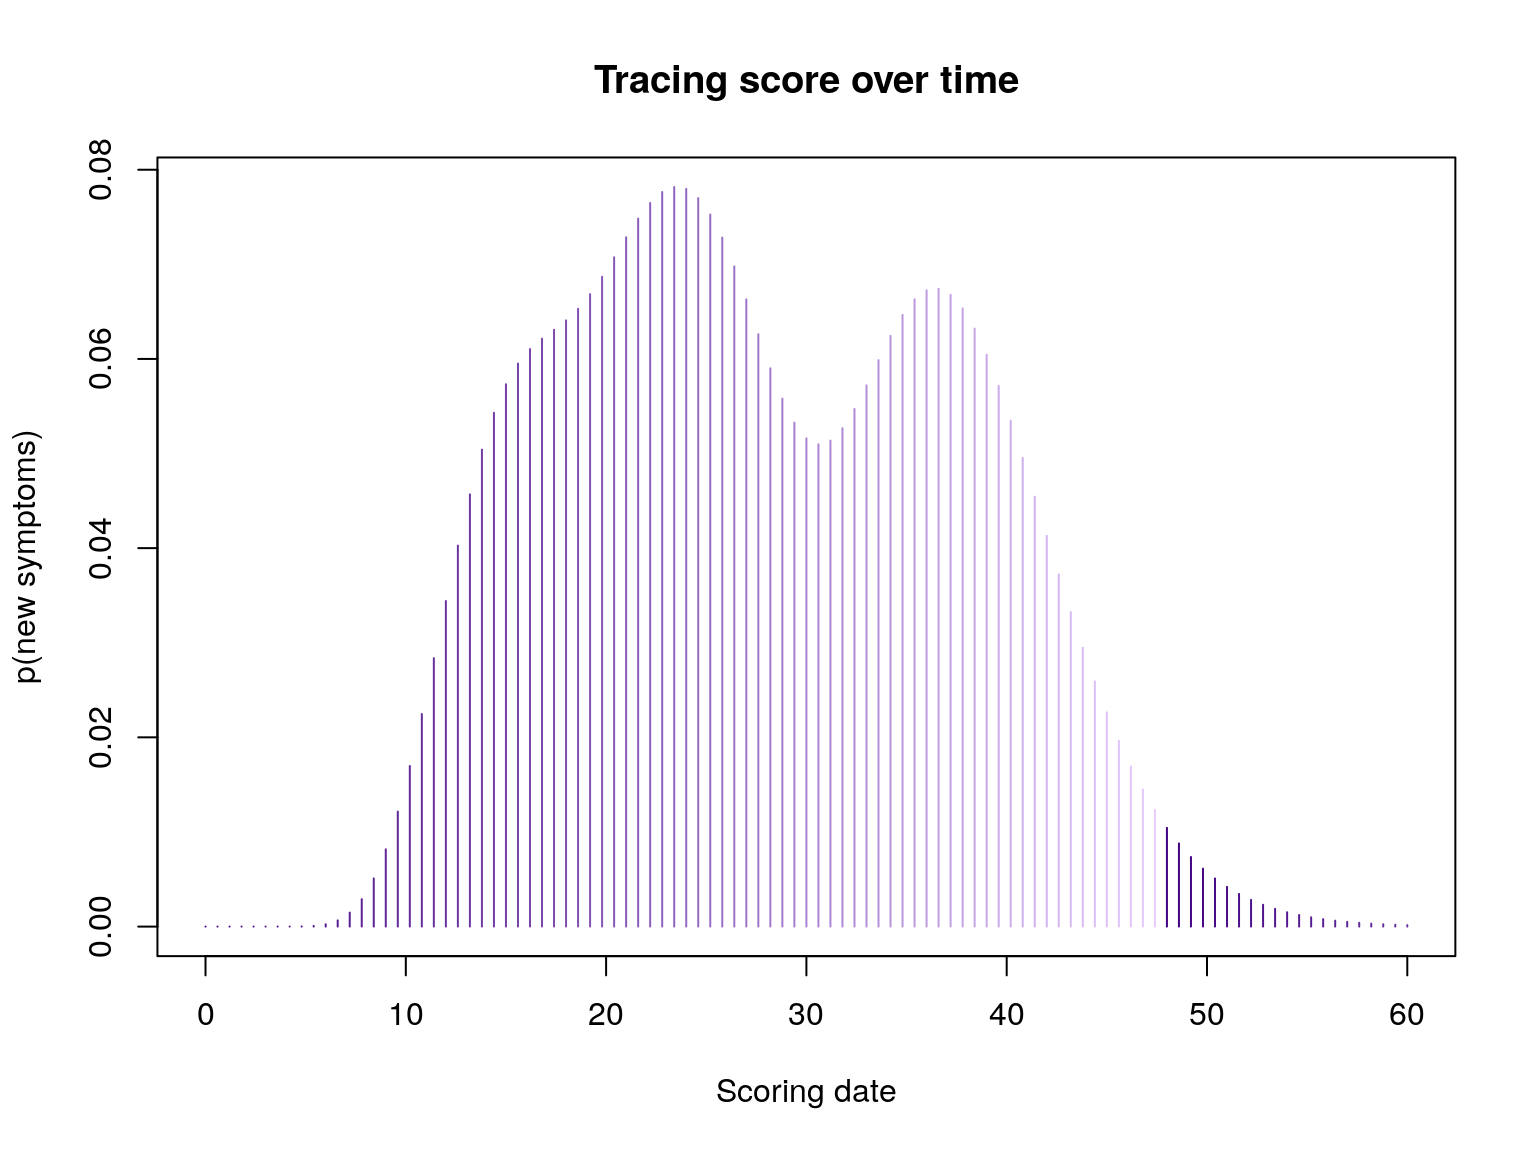
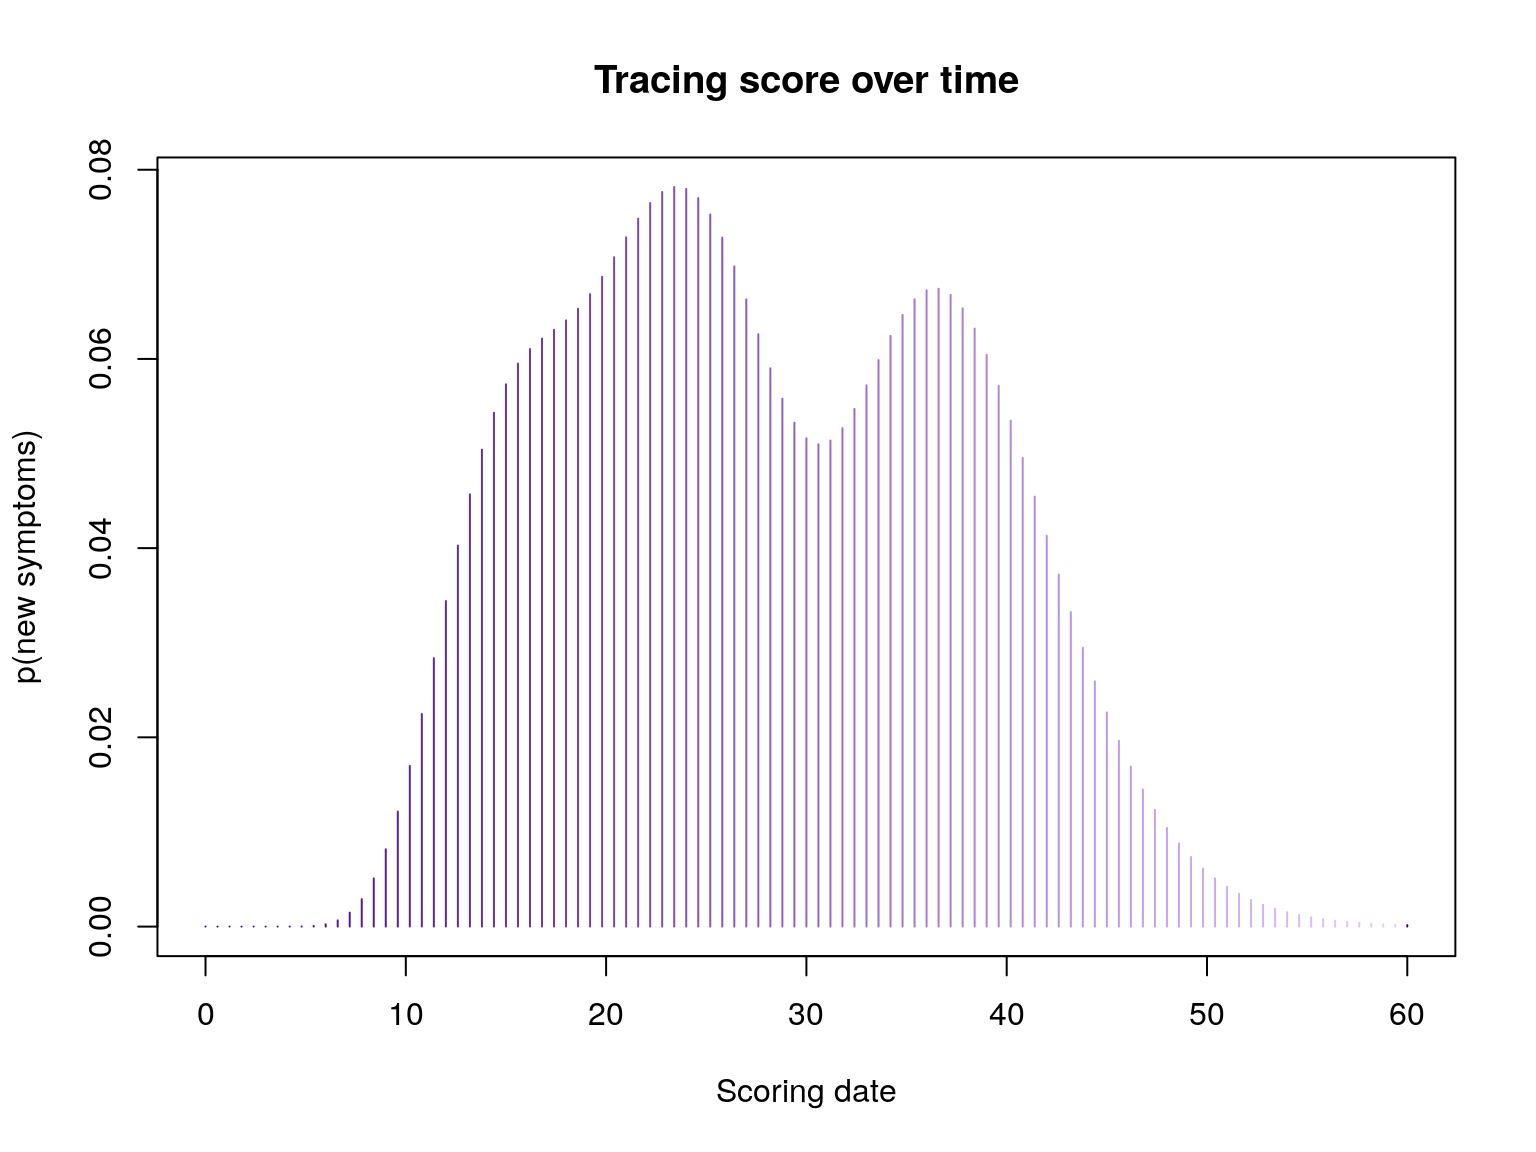
cosmetic changes

Changed region(s): [[0.6562, 0.4375, 0.8438, 0.8125]]

diff --git a/docs/index.html b/docs/index.html
@@ -109,23 +109,21 @@ SI &lt;-<span class="st"> </span>SI.info$d
 <p>For instance, using the parameters defined above, and 3 exposures to cases with onset on days 3, 12, and 34:</p>
 <div class="sourceCode"><pre class="sourceCode r"><code class="sourceCode r">f &lt;-<span class="st"> </span><span class="kw"><a href="reference/contact_score.html">contact_score</a></span>(<span class="kw">c</span>(<span class="dv">3</span>, <span class="dv">12</span>, <span class="dv">24</span>), R, lambda, SI)
 f
-<span class="co">#&gt; function (t, visit_days_ago = 1L) </span>
-<span class="co">#&gt; {</span>
-<span class="co">#&gt;     if (visit_days_ago &lt; 1L) {</span>
-<span class="co">#&gt;         stop("'visit_days_ago' cannot be less than 1.")</span>
+<span class="co">#&gt; function(t, visit_days_ago = 1L) {</span>
+<span class="co">#&gt;         if (visit_days_ago &lt; 1L) {</span>
+<span class="co">#&gt;             stop("'visit_days_ago' cannot be less than 1.")</span>
+<span class="co">#&gt;         }</span>
+<span class="co">#&gt; </span>
+<span class="co">#&gt;         days_ago_to_consider &lt;- seq(0, visit_days_ago - 1L, by = 1L)</span>
+<span class="co">#&gt;         days_list &lt;- lapply(days_ago_to_consider, function(i) t - i)</span>
+<span class="co">#&gt;         out &lt;- double(length(t))</span>
+<span class="co">#&gt;         for (days in days_list) {</span>
+<span class="co">#&gt;             rates &lt;- Rc * vapply(days, function(day) sum(w(day - x)), double(1))</span>
+<span class="co">#&gt;             out &lt;- out + 1 - exp(-rates)</span>
+<span class="co">#&gt;         }</span>
+<span class="co">#&gt;         out</span>
 <span class="co">#&gt;     }</span>
-<span class="co">#&gt;     days_ago_to_consider &lt;- seq(0, visit_days_ago - 1L, by = 1L)</span>
-<span class="co">#&gt;     days_list &lt;- lapply(days_ago_to_consider, function(i) t - </span>
-<span class="co">#&gt;         i)</span>
-<span class="co">#&gt;     out &lt;- double(length(t))</span>
-<span class="co">#&gt;     for (days in days_list) {</span>
-<span class="co">#&gt;         rates &lt;- Rc * vapply(days, function(day) sum(w(day - </span>
-<span class="co">#&gt;             x)), double(1))</span>
-<span class="co">#&gt;         out &lt;- out + 1 - exp(-rates)</span>
-<span class="co">#&gt;     }</span>
-<span class="co">#&gt;     out</span>
-<span class="co">#&gt; }</span>
-<span class="co">#&gt; &lt;environment: 0x55e308bef3d8&gt;</span>
+<span class="co">#&gt; &lt;environment: 0x55e306fb8b40&gt;</span>
 
 ## score on day 10:
 <span class="kw">f</span>(<span class="dv">10</span>)
@@ -136,7 +134,7 @@ f
 <span class="co">#&gt; [1] 0.07796896 0.07592696 0.07186847</span>
 
 ## plotting scores over time
-<span class="kw">plot</span>(f, <span class="dt">xlim =</span> <span class="kw">c</span>(<span class="dv">0</span>, <span class="dv">60</span>), <span class="dt">type =</span> <span class="st">"h"</span>, <span class="dt">col =</span> <span class="kw"><a href="reference/pal1.html">pal1</a></span>(<span class="dv">80</span>), 
+<span class="kw">plot</span>(f, <span class="dt">xlim =</span> <span class="kw">c</span>(<span class="dv">0</span>, <span class="dv">60</span>), <span class="dt">type =</span> <span class="st">"h"</span>, <span class="dt">col =</span> <span class="kw"><a href="reference/pal1.html">pal1</a></span>(<span class="dv">100</span>), 
      <span class="dt">main =</span> <span class="st">"Tracing score over time"</span>, 
      <span class="dt">xlab =</span> <span class="st">"Scoring date"</span>, <span class="dt">ylab =</span> <span class="st">"p(new symptoms)"</span>)</code></pre></div>
 <p><img src="figs/contact_score-1.png" width="768"></p>

diff --git a/README.md b/README.md
@@ -141,23 +141,21 @@ For instance, using the parameters defined above, and 3 exposures to cases with 
 ```r
 f <- contact_score(c(3, 12, 24), R, lambda, SI)
 f
-#> function (t, visit_days_ago = 1L) 
-#> {
-#>     if (visit_days_ago < 1L) {
-#>         stop("'visit_days_ago' cannot be less than 1.")
+#> function(t, visit_days_ago = 1L) {
+#>         if (visit_days_ago < 1L) {
+#>             stop("'visit_days_ago' cannot be less than 1.")
+#>         }
+#> 
+#>         days_ago_to_consider <- seq(0, visit_days_ago - 1L, by = 1L)
+#>         days_list <- lapply(days_ago_to_consider, function(i) t - i)
+#>         out <- double(length(t))
+#>         for (days in days_list) {
+#>             rates <- Rc * vapply(days, function(day) sum(w(day - x)), double(1))
+#>             out <- out + 1 - exp(-rates)
+#>         }
+#>         out
 #>     }
-#>     days_ago_to_consider <- seq(0, visit_days_ago - 1L, by = 1L)
-#>     days_list <- lapply(days_ago_to_consider, function(i) t - 
-#>         i)
-#>     out <- double(length(t))
-#>     for (days in days_list) {
-#>         rates <- Rc * vapply(days, function(day) sum(w(day - 
-#>             x)), double(1))
-#>         out <- out + 1 - exp(-rates)
-#>     }
-#>     out
-#> }
-#> <environment: 0x55e3083b9cb0>
+#> <environment: 0x55e3097524b8>
 
 ## score on day 10:
 f(10)
@@ -168,10 +166,9 @@ f(24:26)
 #> [1] 0.07796896 0.07592696 0.07186847
 
 ## plotting scores over time
-plot(f, xlim = c(0, 60), type = "h", col = pal(80), 
+plot(f, xlim = c(0, 60), type = "h", col = pal1(100), 
      main = "Tracing score over time", 
      xlab = "Scoring date", ylab = "p(new symptoms)")
-#> Error in plot.xy(xy, type, ...): could not find function "pal"
 ```
 
 ![plot of chunk contact_score](figs/contact_score-1.png)
@@ -218,10 +215,9 @@ g(c(10,20,30)) # Exp nb of new cases at t=10,20,30
 #> [1] 0.1973302 2.1070930 2.5574013
 
 
-plot(g, xlim = c(0, 100), type = "h", , col = pal(80), 
+plot(g, xlim = c(0, 100), type = "h", , col = pal1(80), 
      main = "Expected number of new cases", 
      xlab = "Current time", ylab = "Number of cases")
-#> Error in plot.xy(xy, type, ...): could not find function "pal"
 ```
 
 ![plot of chunk unnamed-chunk-2](figs/unnamed-chunk-2-1.png)
